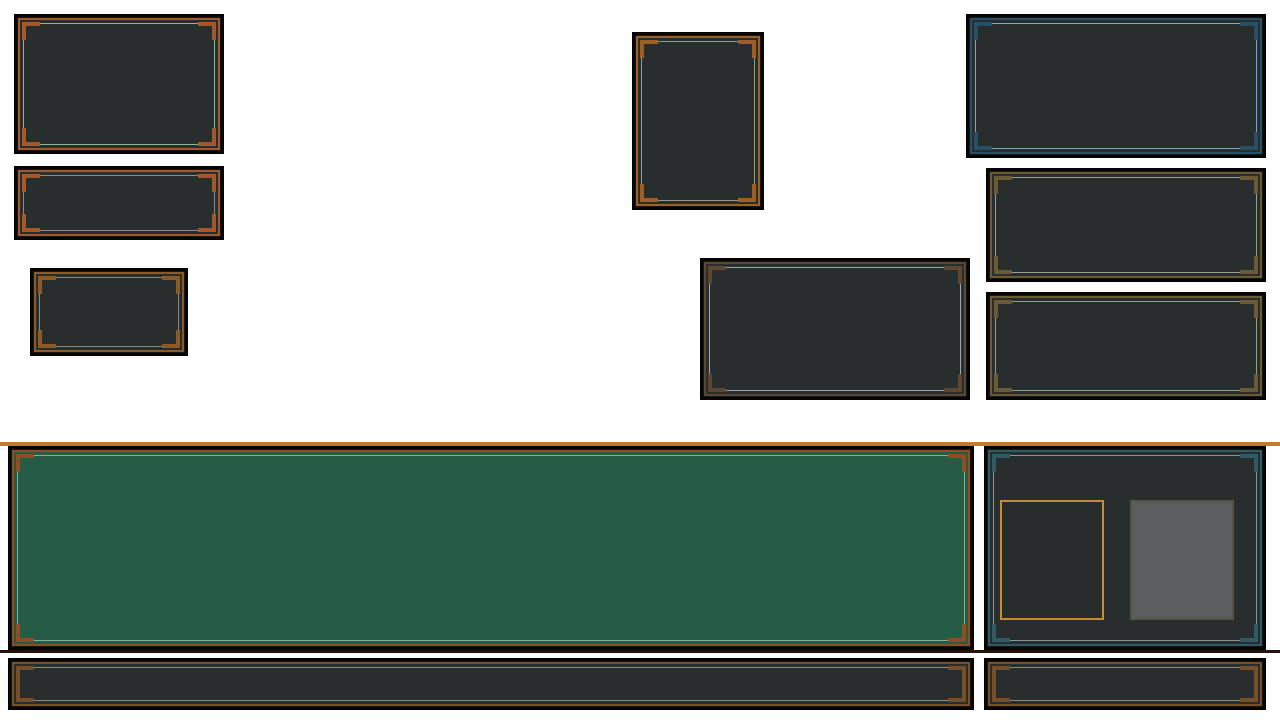
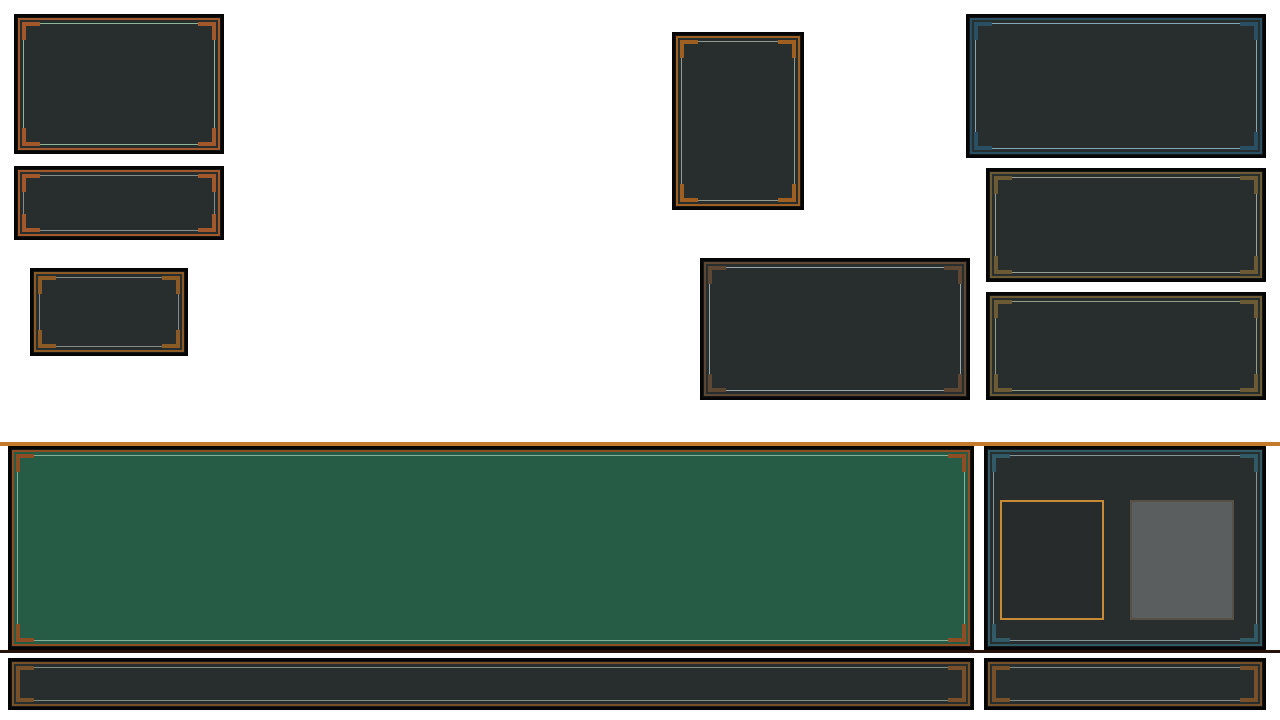
fix: centering

Changed region(s): [[0.4688, 0.0306, 0.5312, 0.3056], [0.5625, 0.0306, 0.625, 0.3056]]

diff --git a/src/game/scenes/PubGameScene.ts b/src/game/scenes/PubGameScene.ts
@@ -31,7 +31,7 @@ type PixelButton = {
 
 type VisitSlot = {
   frame: Phaser.GameObjects.Rectangle;
-  dart: Phaser.GameObjects.Text;
+  dart: Phaser.GameObjects.Graphics;
 };
 
 type CardColors = {
@@ -63,17 +63,19 @@ const cardTextColors: Record<CardName, CardColors> = {
   "Checkout Nerve": { label: "#1a1010", body: "#111510" }
 };
 
-const boardCenter = { x: 418, y: 250 };
-const boardRadius = 172;
+const boardCenter = { x: 470, y: 200 };
+const boardRadius = 138;
+const boardBackboardRadius = 162;
+const boardLabelRadius = 152;
 const segmentSpan = 18;
 const halfSegment = segmentSpan / 2;
 const boardRings = {
-  bull: 16,
-  outerBull: 35,
-  innerSingle: 81,
-  trebleOuter: 101,
-  outerSingle: 154,
-  doubleOuter: 172
+  bull: 13,
+  outerBull: 28,
+  innerSingle: 65,
+  trebleOuter: 81,
+  outerSingle: 123,
+  doubleOuter: 138
 };
 
 export class PubGameScene extends Phaser.Scene {
@@ -149,7 +151,7 @@ export class PubGameScene extends Phaser.Scene {
     this.hitFlash.setBlendMode(Phaser.BlendModes.ADD);
     this.createBoardLabels();
 
-    const zone = this.add.zone(boardCenter.x, boardCenter.y, boardRadius * 2, boardRadius * 2);
+    const zone = this.add.zone(boardCenter.x, boardCenter.y, boardBackboardRadius * 2, boardBackboardRadius * 2);
     zone.setInteractive({ cursor: "crosshair" });
     zone.on("pointerdown", (pointer: Phaser.Input.Pointer) => {
       if (
@@ -170,9 +172,11 @@ export class PubGameScene extends Phaser.Scene {
     const g = this.board;
     g.clear();
     g.fillStyle(0x151515, 1);
-    g.fillCircle(boardCenter.x, boardCenter.y, boardRadius + 16);
+    g.fillCircle(boardCenter.x, boardCenter.y, boardBackboardRadius);
     g.lineStyle(5, 0xcab27a, 1);
-    g.strokeCircle(boardCenter.x, boardCenter.y, boardRadius + 16);
+    g.strokeCircle(boardCenter.x, boardCenter.y, boardBackboardRadius);
+    g.lineStyle(1, 0x4c3822, 0.75);
+    g.strokeCircle(boardCenter.x, boardCenter.y, boardLabelRadius - 13);
 
     for (let index = 0; index < dartboardOrder.length; index += 1) {
       const centerAngle = index * segmentSpan - 90;
@@ -361,12 +365,12 @@ export class PubGameScene extends Phaser.Scene {
     for (const label of this.boardLabels) label.destroy();
     this.boardLabels = dartboardOrder.map((number, index) => {
       const angle = Phaser.Math.DegToRad(index * 18 - 90);
-      const x = boardCenter.x + Math.cos(angle) * (boardRadius + 17);
-      const y = boardCenter.y + Math.sin(angle) * (boardRadius + 17);
+      const x = boardCenter.x + Math.cos(angle) * boardLabelRadius;
+      const y = boardCenter.y + Math.sin(angle) * boardLabelRadius;
       return this.add
         .text(x, y, String(number), {
           fontFamily: "Courier New",
-          fontSize: "17px",
+          fontSize: "16px",
           color: "#f7e2b3",
           fontStyle: "bold"
         })
@@ -399,8 +403,8 @@ export class PubGameScene extends Phaser.Scene {
     this.checkoutText = this.addText(36, 184, "", 18, "#f2d18a", true, 166, 40);
     this.addText(52, 288, "BULL\nFINISH\nSTRONG", 17, "#b8c45c", true, 118, 54);
 
-    this.centerSignText = this.addText(652, 76, "301\nBEST OF\n5 LEGS", 24, "#e7bd54", true, 92, 112);
-    this.addText(652, 50, "TONIGHT", 14, "#70b765", true, 92, 18);
+    this.centerSignText = this.addText(692, 76, "301\nBEST OF\n5 LEGS", 24, "#e7bd54", true, 92, 112);
+    this.addText(692, 50, "TONIGHT", 14, "#70b765", true, 92, 18);
 
     this.add.image(1029, 86, "cpu-opponent").setDisplaySize(98, 98).setDepth(5);
     this.cpuScoreText = this.addText(1112, 64, "", 54, "#e7bd54", true, 120, 66).setShadow(3, 3, "#000000", 0, false, true);
@@ -410,7 +414,8 @@ export class PubGameScene extends Phaser.Scene {
     this.visitText = this.addText(1014, 188, "", 20, "#e8c176", true, 92, 50);
     this.visitSlots = [0, 1, 2].map((index) => {
       const frame = this.add.rectangle(1120 + index * 42, 226, 34, 54, 0x111515, 0.9).setStrokeStyle(2, 0x6b6555).setDepth(6);
-      const dart = this.addText(1113 + index * 42, 206, "|>", 28, "#f2d18a", true, 28, 42);
+      const dart = this.add.graphics().setDepth(7);
+      this.drawVisitDart(dart, 1120 + index * 42, 226, 0xf2d18a, 1);
       return { frame, dart };
     });
 
@@ -434,9 +439,24 @@ export class PubGameScene extends Phaser.Scene {
         }
       }
     );
-    this.actionButton = this.makeButton(682, 673, 182, 34, "THROW DART", () => this.primaryAction());
-    this.discardButton = this.makeButton(874, 673, 84, 34, "DISCARD", () => this.discardTechniques());
-    this.newGameButton = this.makeButton(1020, 673, 206, 34, "NEW LEG", () => this.newGame());
+    this.actionButton = this.makeButton(684, 674, 174, 30, "THROW DART", () => this.primaryAction());
+    this.discardButton = this.makeButton(1004, 674, 102, 30, "DISCARD", () => this.discardTechniques());
+    this.newGameButton = this.makeButton(1120, 674, 124, 30, "NEW LEG", () => this.newGame());
+  }
+
+  private drawVisitDart(g: Phaser.GameObjects.Graphics, x: number, y: number, color: number, alpha: number) {
+    g.clear();
+    g.lineStyle(3, color, alpha);
+    g.lineBetween(x, y - 12, x, y + 16);
+    g.lineStyle(2, 0x0b0c0c, alpha * 0.8);
+    g.lineBetween(x + 3, y - 10, x + 3, y + 14);
+    g.fillStyle(color, alpha);
+    g.fillTriangle(x - 5, y + 15, x + 5, y + 15, x, y + 24);
+    g.fillTriangle(x - 12, y - 18, x - 2, y - 13, x - 2, y - 4);
+    g.fillTriangle(x + 12, y - 18, x + 2, y - 13, x + 2, y - 4);
+    g.fillStyle(0x0b0c0c, alpha * 0.7);
+    g.fillTriangle(x - 8, y - 15, x - 2, y - 12, x - 2, y - 7);
+    g.fillTriangle(x + 8, y - 15, x + 2, y - 12, x + 2, y - 7);
   }
 
   private addText(x: number, y: number, text: string, size: number, color: string, bold = false, width?: number, height?: number) {
@@ -458,7 +478,7 @@ export class PubGameScene extends Phaser.Scene {
     const title = this.add
       .text(width / 2, height / 2, label, {
         fontFamily: "Courier New",
-        fontSize: "15px",
+        fontSize: height <= 30 ? "14px" : "15px",
         fontStyle: "bold",
         color: "#1a1010",
         align: "center",
@@ -528,10 +548,12 @@ export class PubGameScene extends Phaser.Scene {
     this.visitSlots.forEach((slot, index) => {
       const used = index < active.dartsThrown;
       const current = index === active.dartsThrown && this.state.phase !== "game-over";
+      const color = used ? 0x7b8174 : current ? 0xf2d18a : 0x6b6555;
+      const alpha = used || current ? 1 : 0.24;
       slot.frame.setStrokeStyle(2, current ? 0xe7bd54 : used ? 0x52645b : 0x6b6555);
       slot.frame.setFillStyle(current ? 0x21170d : 0x111515, current ? 1 : 0.9);
-      slot.dart.setAlpha(used || current ? 1 : 0.22);
-      slot.dart.setColor(used ? "#7b8174" : current ? "#f2d18a" : "#6b6555");
+      slot.dart.setAlpha(1);
+      this.drawVisitDart(slot.dart, 1120 + index * 42, 226, color, alpha);
     });
   }
 